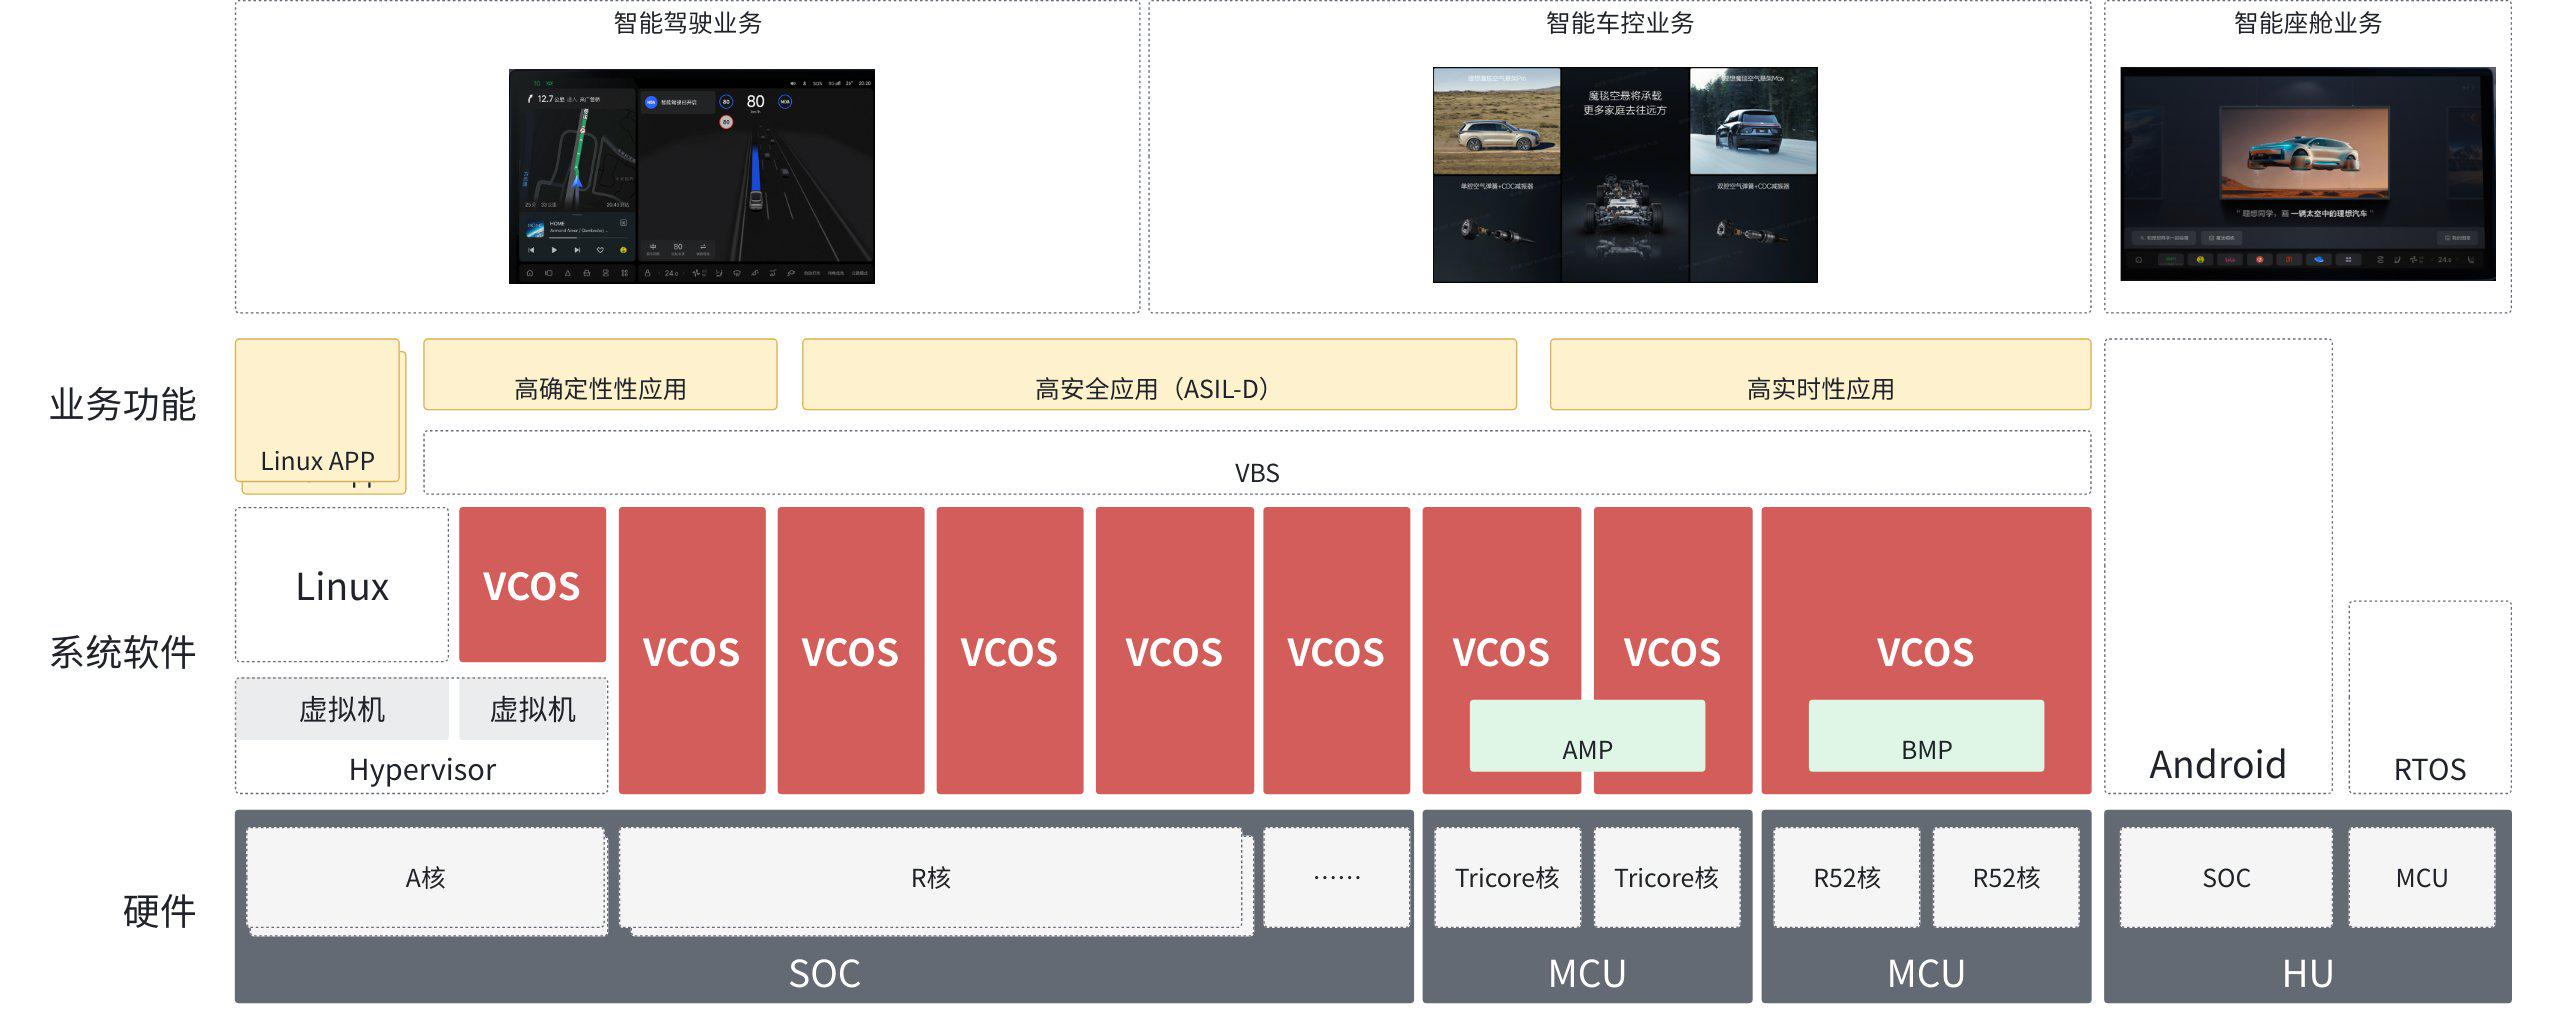
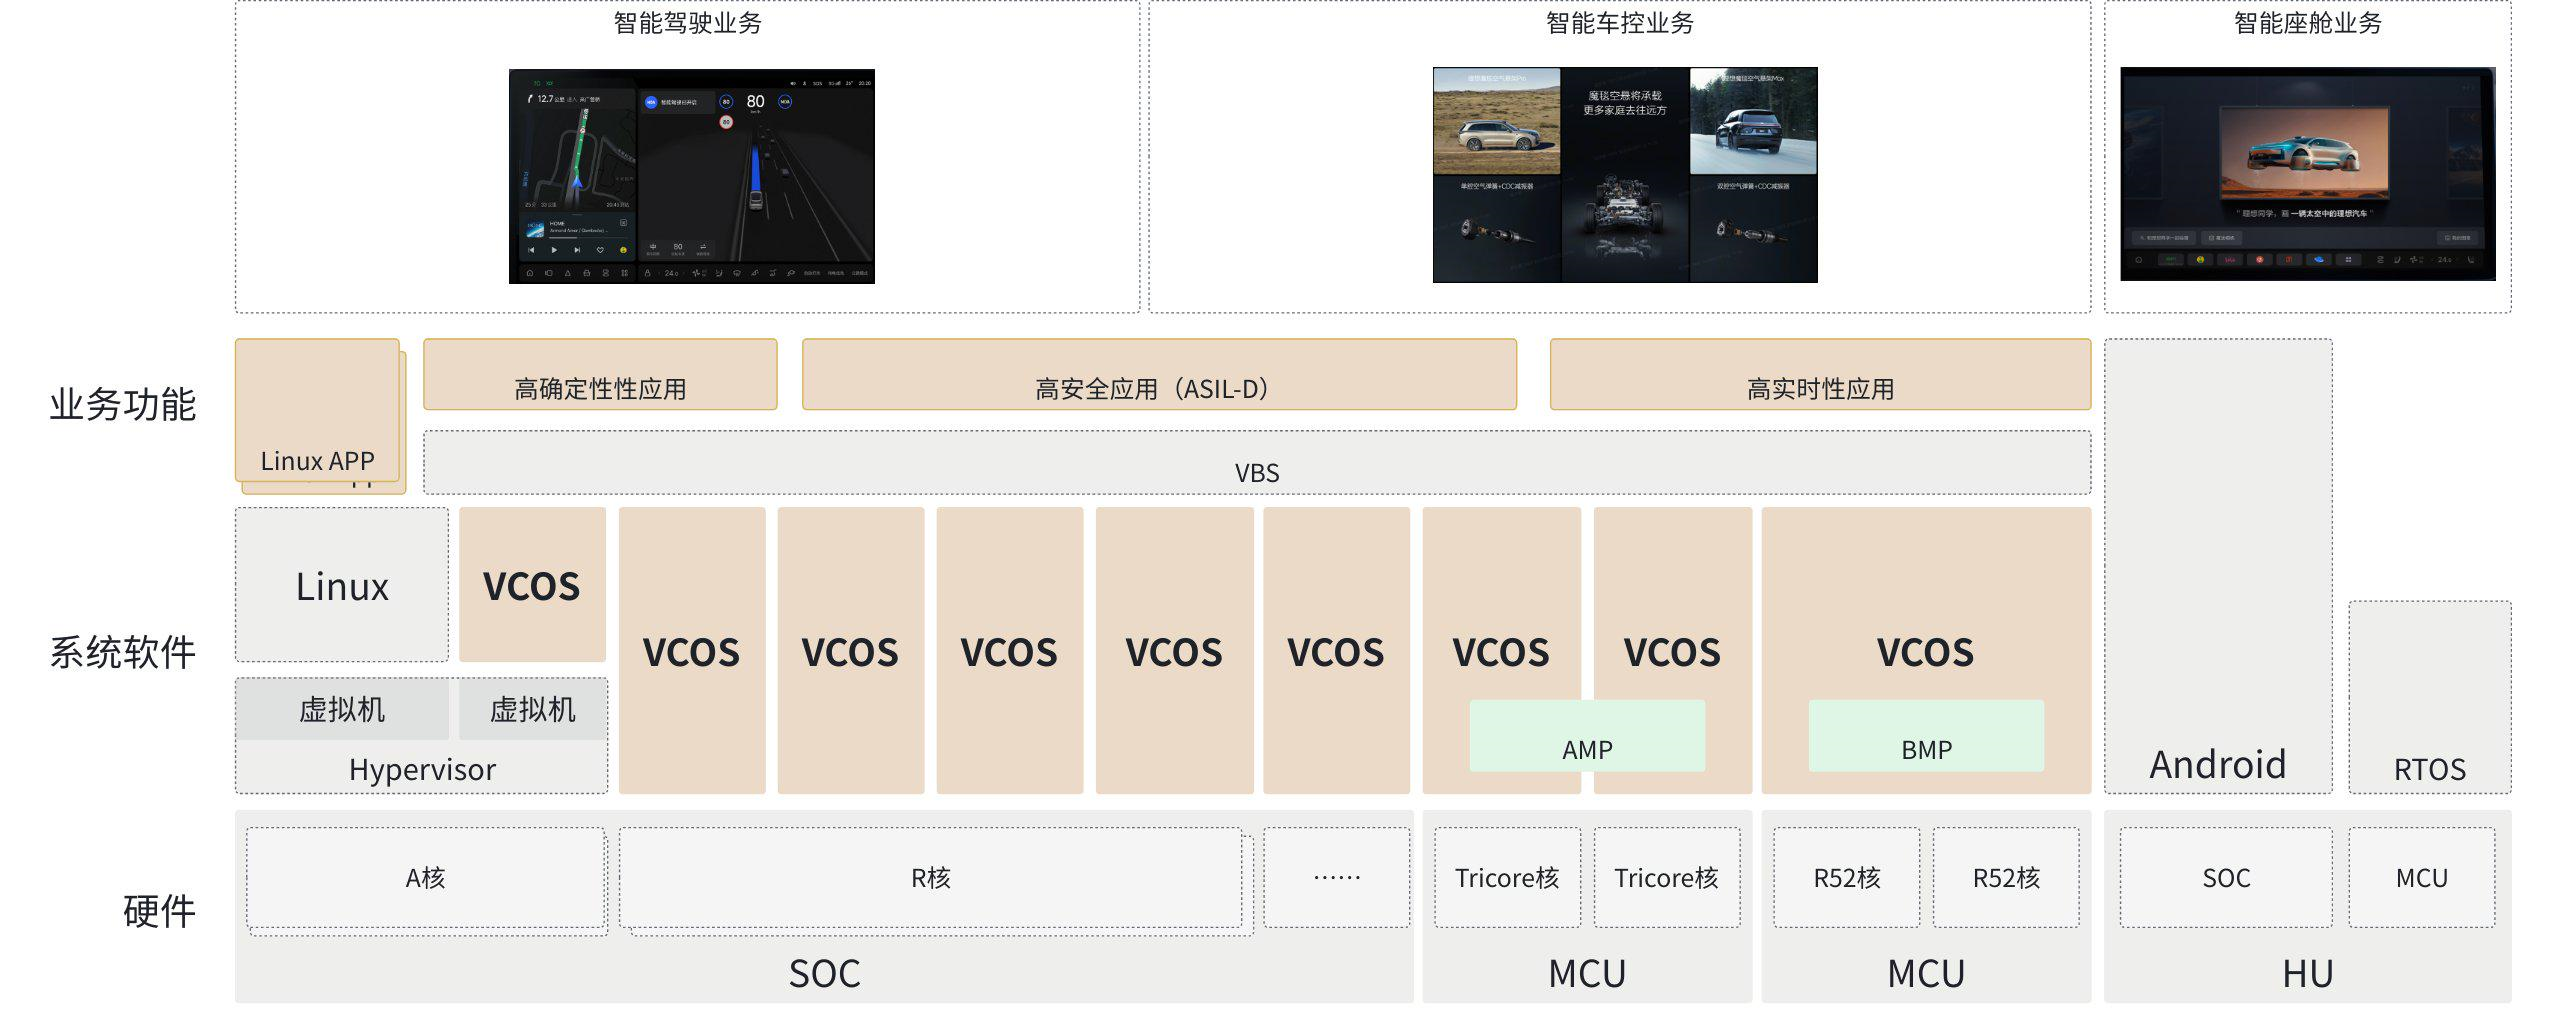
HaloOS update

diff --git a/OVERVIEW.md b/OVERVIEW.md
@@ -2,7 +2,7 @@
 
 ## 1. 项目简介
 
-智能车控OS（VCOS）是面向车辆控制的操作系统，支撑智能汽车高安全、高实时的核心车控业务部署。系统通过硬实时调度架构确保动力控制、底盘控制等关键任务精准响应，实现感知与决策系统的高效协同，构建从硬件到软件的全链路安全防护体系。智能车控OS在实时性、确定性和功能安全等维度显著领先业内系统，并配备覆盖开发调试、仿真验证的可视化工具链，有效提升车企在智能控制系统开发、测试及迭代的效率
+智能车控OS（VCOS）是面向车辆控制的操作系统，支撑智能汽车高安全、高实时的核心车控业务部署。系统通过硬实时调度架构确保动力控制、底盘控制等关键任务精准响应，实现感知与决策系统的高效协同，构建从硬件到软件的全链路安全防护体系。智能车控OS在实时性、确定性以及功能安全保障上实现了很高的性能表现，其设计充分考虑了未来系统的复杂性和高要求，并配备覆盖开发调试、仿真验证的可视化工具链，有效提升车企在智能控制系统开发、测试及迭代的效率
 
 ## 2. 项目架构
 
@@ -10,7 +10,7 @@
 
 ![逻辑视图](./_static/image/overview/design_02.png "逻辑视图")
 
-本系统可以划分为两层：接口层、框架、内核层、硬件/模拟器
+本系统可以划分为四层：接口层、框架层、内核层、硬件/模拟器
 
 接口层：对上层封装并提供POSIX和智能车控OS功能栈接口
 
@@ -24,7 +24,7 @@
 - 诊断标定：主要提供UDS、XCP等功能
 - 通信服务：主要提供CAN、ETH的协议栈处理和路由管理等功能
 
-内核层：提供以下功能
+内核层：基于Nuttx内核，提供以下功能
 
 - 外设驱动
 - 内存管理
@@ -110,7 +110,7 @@
 
 ### 3.5 轻量级安全隔离
 
-传统操作系统常采用内核级纵向隔离，不仅资源开销大，且高度依赖特定硬件功能，例如复杂的 MMU 配置等。智能车控 OS 创新地在解耦底层硬件特殊功能的依赖基础上，构建了一套轻量级软件解耦框架。该框架实现了核与核、系统软件间、以及应用层级间的三种纵向隔离机制，充分满足车载业务在功能隔离与独立复位方面的核心需求，通过最大化的轻量化设计，实现隔离安全性与资源效率间的最佳平衡，具体原理和效果如下图所示：
+传统操作系统常采用内核级纵向隔离，不仅资源开销大，且高度依赖特定硬件功能，例如复杂的 MMU 配置等。智能车控 OS 创新地在解耦底层硬件特殊功能的依赖基础上，构建了一套轻量级软件解耦框架。该框架实现了核与核、系统软件间、以及应用层级间的三种横向隔离机制，充分满足车载业务在功能隔离与独立复位方面的核心需求，通过最大化的轻量化设计，实现隔离安全性与资源效率间的最佳平衡，具体原理和效果如下图所示：
 ![安全隔离](./_static/image/overview/design_035.png "架构原理图")
 
 ## 4. 开发环境

diff --git a/quick_start/02_installing.md b/quick_start/02_installing.md
@@ -2,21 +2,21 @@
 
 本文将基于VCOS开放的rt_demo应用快速完成代码生成，以支持后续编译与验证。在Windows系统上我们将展示界面的初步使用，在Linux系统上我们将展示工具的命令行的初步使用。详细的工具以及配置使用可以进一步参考：[VCOS Studio 配置工具开发者手册](../user_manual/studio/configurator_tool_user_manual.md)（包括在Linux下如何使用界面做配置）
 > 注意：本工具强依赖于python3.8.10，请在【[代码下载](01_downloading.md)】中获取安装方法；如果已安装，请忽略
->
+
 ## 1. Windows系统
 
 ### 1.1. 安装Studio依赖插件
 
-1. 以【管理员权限】打开powershell，切换目录到下载的VCOS代码目录（haloosspace/vcos）下
+1. 以【管理员权限】打开powershell，在HaloOS根目录`haloosspace`下
 2. 执行以下命令
 
     ```bash
-    python ./vcos_studio/configurator/init_env.py -a
+    python ./vcos/vcos_studio/configurator/init_env.py -a
     ```
 
 ### 1.2. 打开Studio工具
 
-在代码空间中通过运行`.\vcos_studio\configurator\configurator.bat`脚本，打开Studio工具（首次打开可能需要等待一段时间）
+在代码空间中通过运行`.\vcos\vcos_studio\configurator\configurator.bat`脚本，打开Studio工具（首次打开可能需要等待一段时间）
 
 ### 1.3. 打开系统预设工程
 
@@ -45,32 +45,32 @@
 
 ### 2.1. 安装Studio依赖插件
 
-1. 打开Linux终端，切换目录到下载的VCOS代码目录（haloosspace/vcos）下
+1. 打开Linux终端，在HaloOS根目录`haloosspace`下
 2. 执行以下命令
 
     ```bash
     sudo apt update
     sudo apt install python3.8-venv libxcb-cursor0
-    python ./vcos_studio/configurator/init_env.py -a
+    python ./vcos/vcos_studio/configurator/init_env.py -a
     ```
 
     > 在高版本的Ubuntu下如果python3.8-venv找不到，请运行`sudo add-apt-repository ppa:deadsnakes/ppa`以添加 deadsnakes PPA（提供旧版本 Python），后再次运行上述命令
  >
 ### 2.2. 命令行生成动态代码
 
-1. 打开Linux终端，切换目录到下载的VCOS代码目录（haloosspace/vcos）下
+1. 打开Linux终端，在HaloOS根目录`haloosspace`下
 2. 激活虚拟环境默认虚拟环境路径: VCOS代码目录，执行以下命令（每次重新激活工具命令时，需要重新激活虚拟环境）
 
     ```bash
-    chmod +x .venv/bin/activate
-    source .venv/bin/activate
+    chmod +x ./vcos/.venv/bin/activate
+    source ./vcos/.venv/bin/activate
     ```
 
     > 输入命令`deactivate`，可以退出虚拟环境
 3. 执行以下命令（该脚本可以打开工程，以及生成代码）
 
     ```bash
-    python vcos_studio/configurator/cmd_api/auto_cli.py -p ../apps/rt_demo/platform_cfg/tc397_cfg/rt_demo.vcosproject Generate
+    python ./vcos/vcos_studio/configurator/cmd_api/auto_cli.py -p ./apps/rt_demo/platform_cfg/tc397_cfg/rt_demo.vcosproject Generate
     ```
 
     > 提示：这里以rt_demo为例，如果需要打开其他工程，可以选其他的vcosproject工程文件打开

diff --git a/quick_start/01_downloading.md b/quick_start/01_downloading.md
@@ -26,14 +26,14 @@ git的安装流程此处略过，编译过程还需要使用git的patch工具，
 git repo的安装流程如下：
 
 1. 下载[git repo官方压缩包](https://git-repo.info/releases/v0.7.8/git-repo-0.7.8-Windows-64.zip)，并解压
-2. 将解压后的repo.exe拷贝到系统用户的bin路径下（如C:\Users\YourName\bin，注意该路径需要添加进环境变量）
+2. 将解压后的git-repo.exe拷贝到git安装目录cmd路径下（如C:\Program Files\Git\cmd，注意该路径安装git时已经添加进环境变量，如果没有添加，需要执行以下步骤3~5）
 3. 按 Win + S 搜索 “环境变量” → 选择 “编辑系统环境变量”
-4. 在 “用户变量” 中找到 Path → 点击 “编辑” → “新建” → 添加上述bin路径 → 保存
+4. 在 “用户变量” 中找到 Path → 点击 “编辑” → “新建” → 添加上述cmd路径 → 保存
 5. 重启 PowerShell 并运行以下命令，如果显示版本号即安装成功
 
     ```powershell
     git --version # 应输出版本信息  
-    git repo --version  # 应输出版本信息  
+    git-repo --version  # 应输出版本信息  
     ```
 
 ### 1.3. 下载代码
@@ -53,11 +53,11 @@ git repo的安装流程如下：
     mkdir haloosspace
     cd haloosspace
     rm -r ./.repo/
-    git repo init -u git@gitee.com:haloos/manifests.git -b master -m vcos.xml
-    git repo sync
+    git-repo init -u git@gitee.com:haloos/manifests.git -b master -m vcos.xml
+    git-repo sync
     ```
 
-> 关于git repo的更多使用，可以输入`git repo -h`查看
+> 关于git repo的更多使用，可以输入`git-repo -h`查看
 
 ## 2. Linux（Ubuntu）
 
